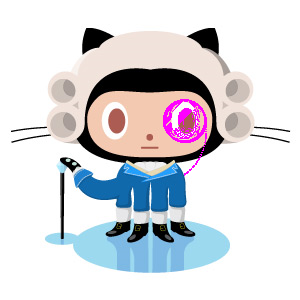
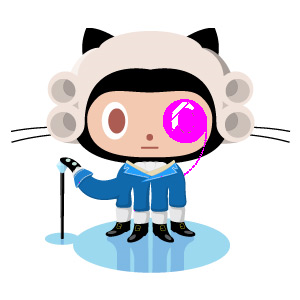
updated tolerance

Changed region(s): [[0.54, 0.33, 0.69, 0.48]]

diff --git a/test/ImageDiffTest/Program.cs b/test/ImageDiffTest/Program.cs
@@ -31,7 +31,7 @@ namespace ImageDiffTest
           new DiffOptions()
           {
             ErrorColor = Color.FromArgb(255, 255, 0, 255),
-            Tolerance = 0.2f,
+            Tolerance = 0.15f,
             OverlayTransparency = 1.0f,
             OverlayType = OverlayType.Movement,
             WeightByDiffPercentage = false,
